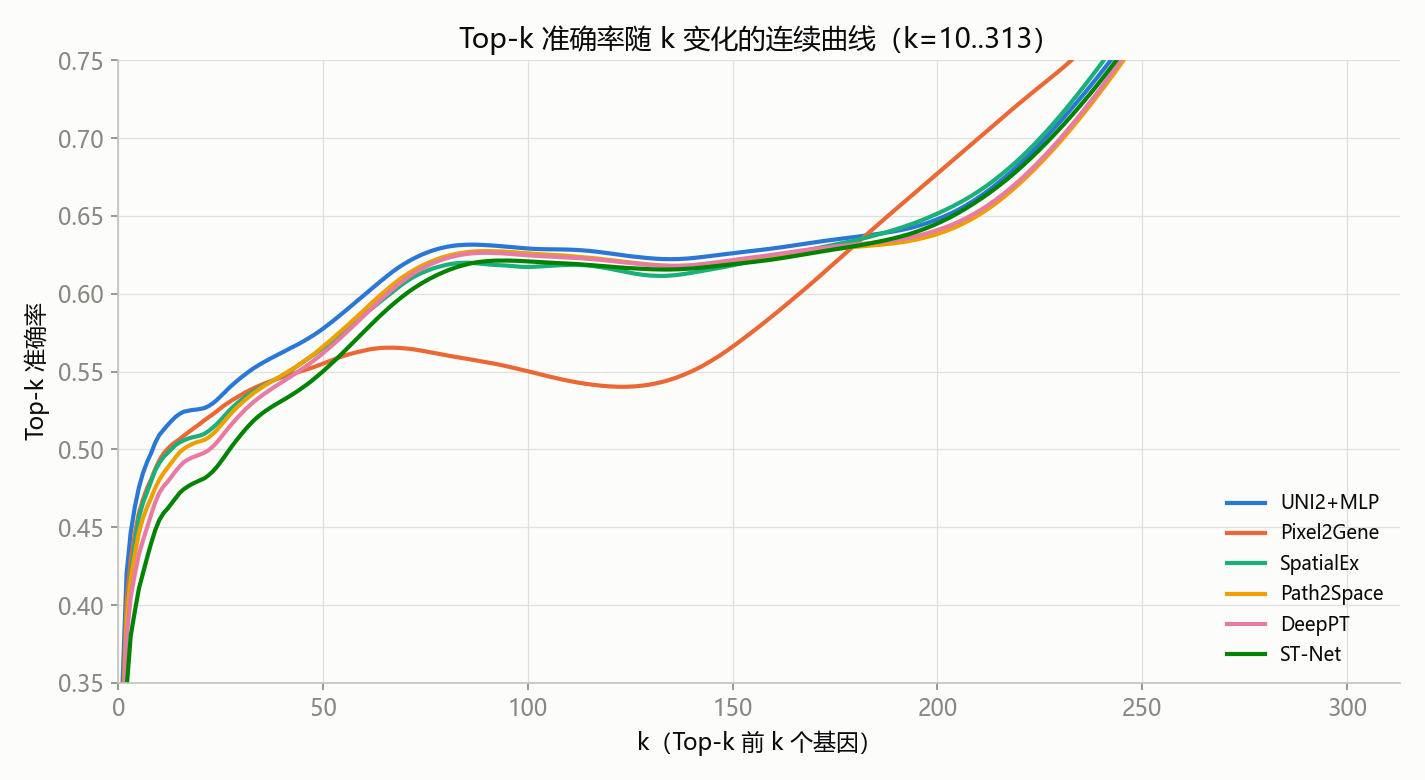
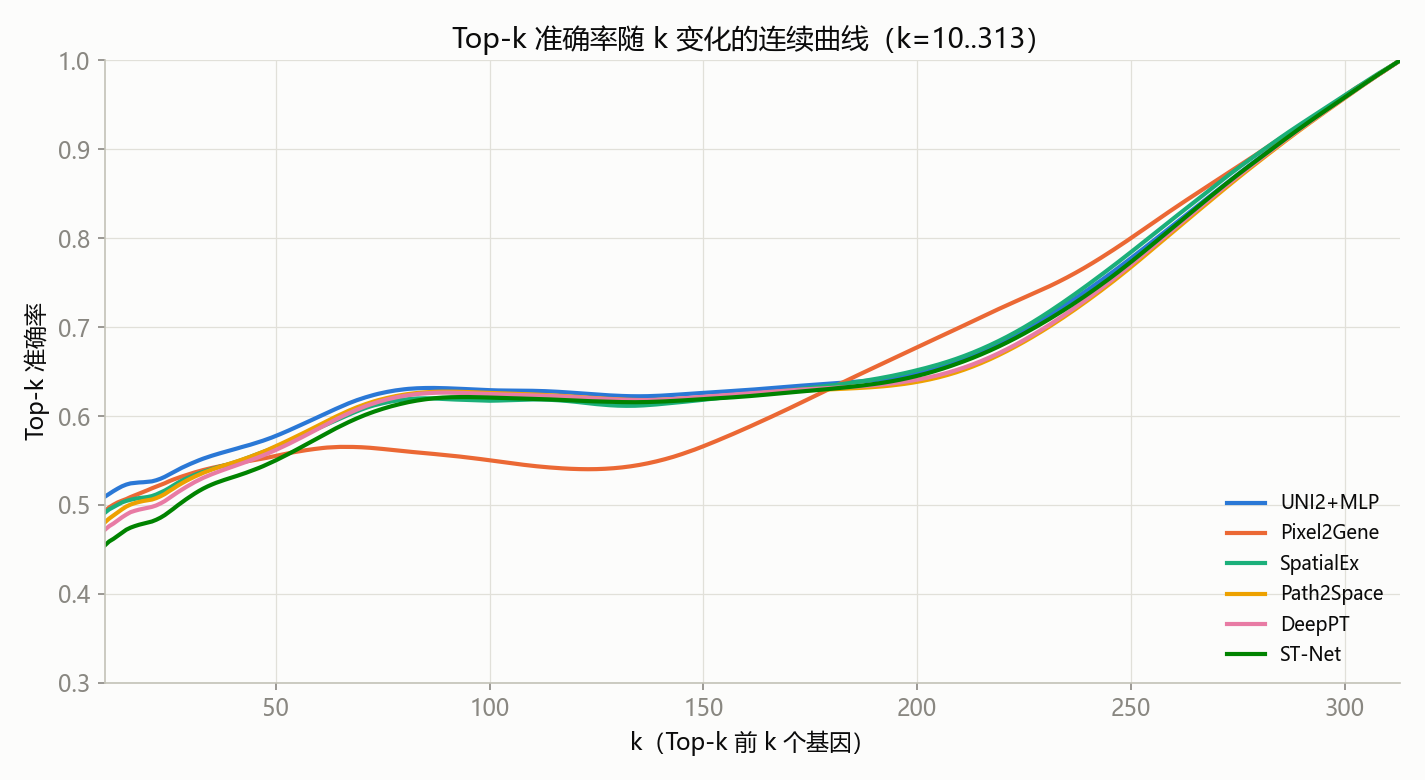
Top-k曲线: 横轴10-313纵轴到1, 曲线从k=10开始

diff --git a/scripts/plot_he_results_partial.py b/scripts/plot_he_results_partial.py
@@ -141,12 +141,13 @@ for n, m, s in zip(names_s, means_s, stds_s):
 fig, ax = plt.subplots(figsize=(9.5, 5.2))
 for name, _, color in METHODS:
     d = data[name]
-    ax.plot(d["ks"], d["acc"], color=color, lw=2, label=name)
+    m = d["ks"] >= 10                      # 曲线从 k=10 开始
+    ax.plot(d["ks"][m], d["acc"][m], color=color, lw=2, label=name)
 ax.set_xlabel("k（Top-k 前 k 个基因）")
 ax.set_ylabel("Top-k 准确率")
 ax.set_title("Top-k 准确率随 k 变化的连续曲线（k=10..313）")
-ax.set_xlim(0, 313)
-ax.set_ylim(0.35, 0.75)
+ax.set_xlim(10, 313)                        # 横轴到 313
+ax.set_ylim(0.3, 1.0)                       # 纵轴到 1（k=313 时 acc=1.0）
 ax.legend(loc="lower right", frameon=False, fontsize=9)
 fig.tight_layout()
 fig.savefig("topk_accuracy_unf_partial.png", dpi=150)
